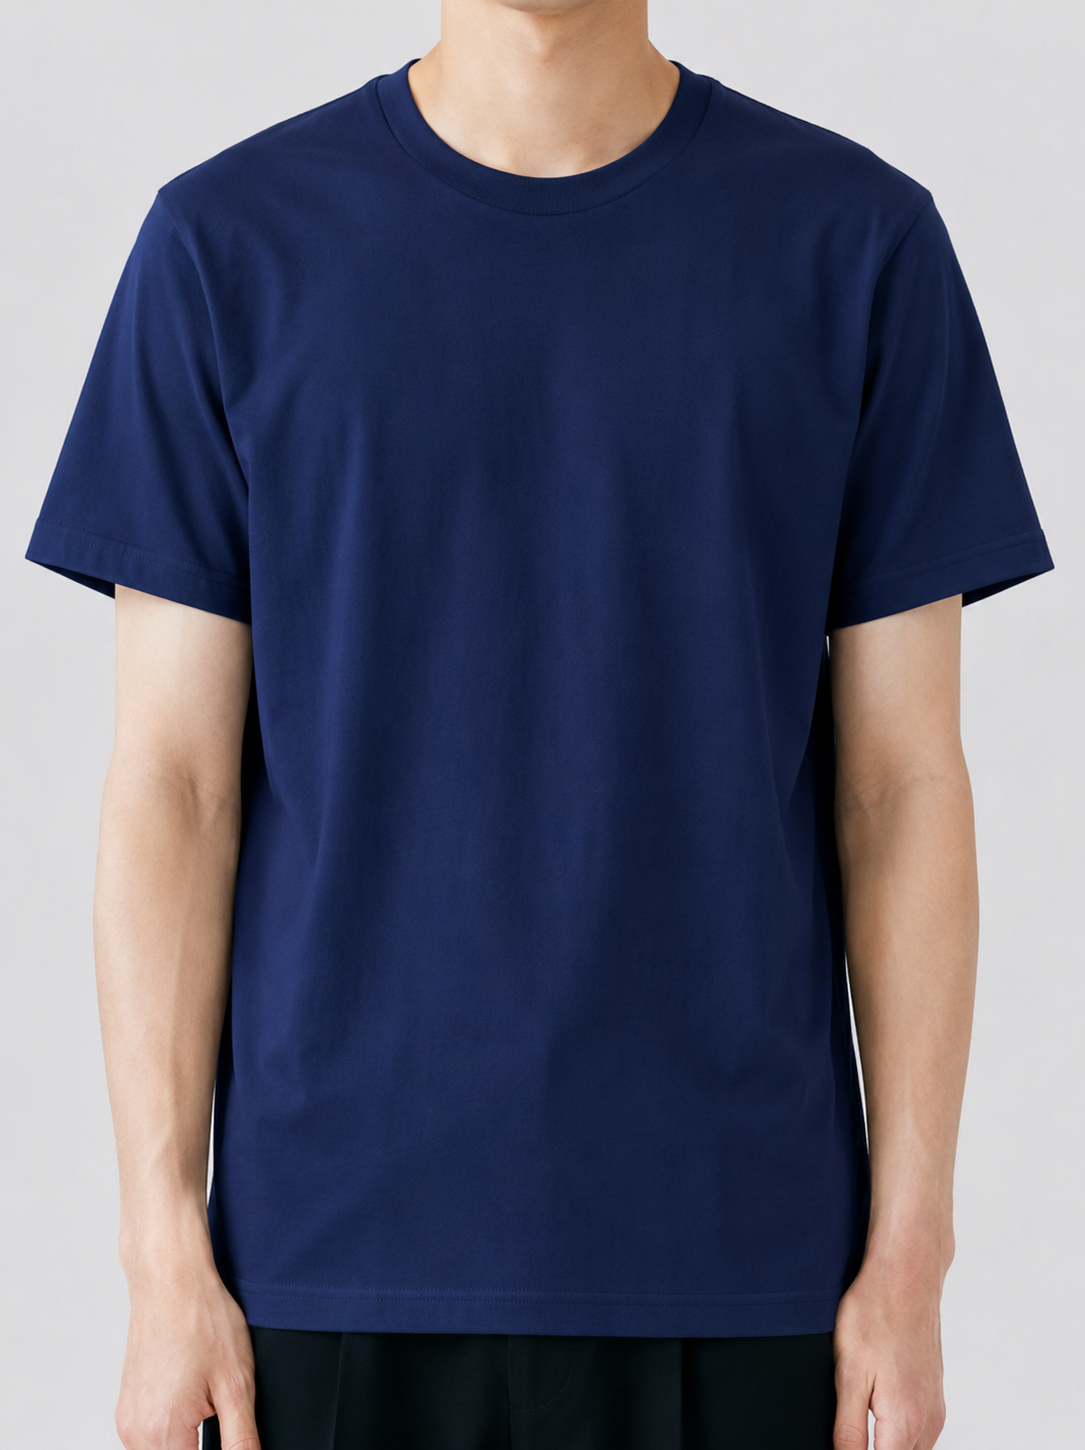
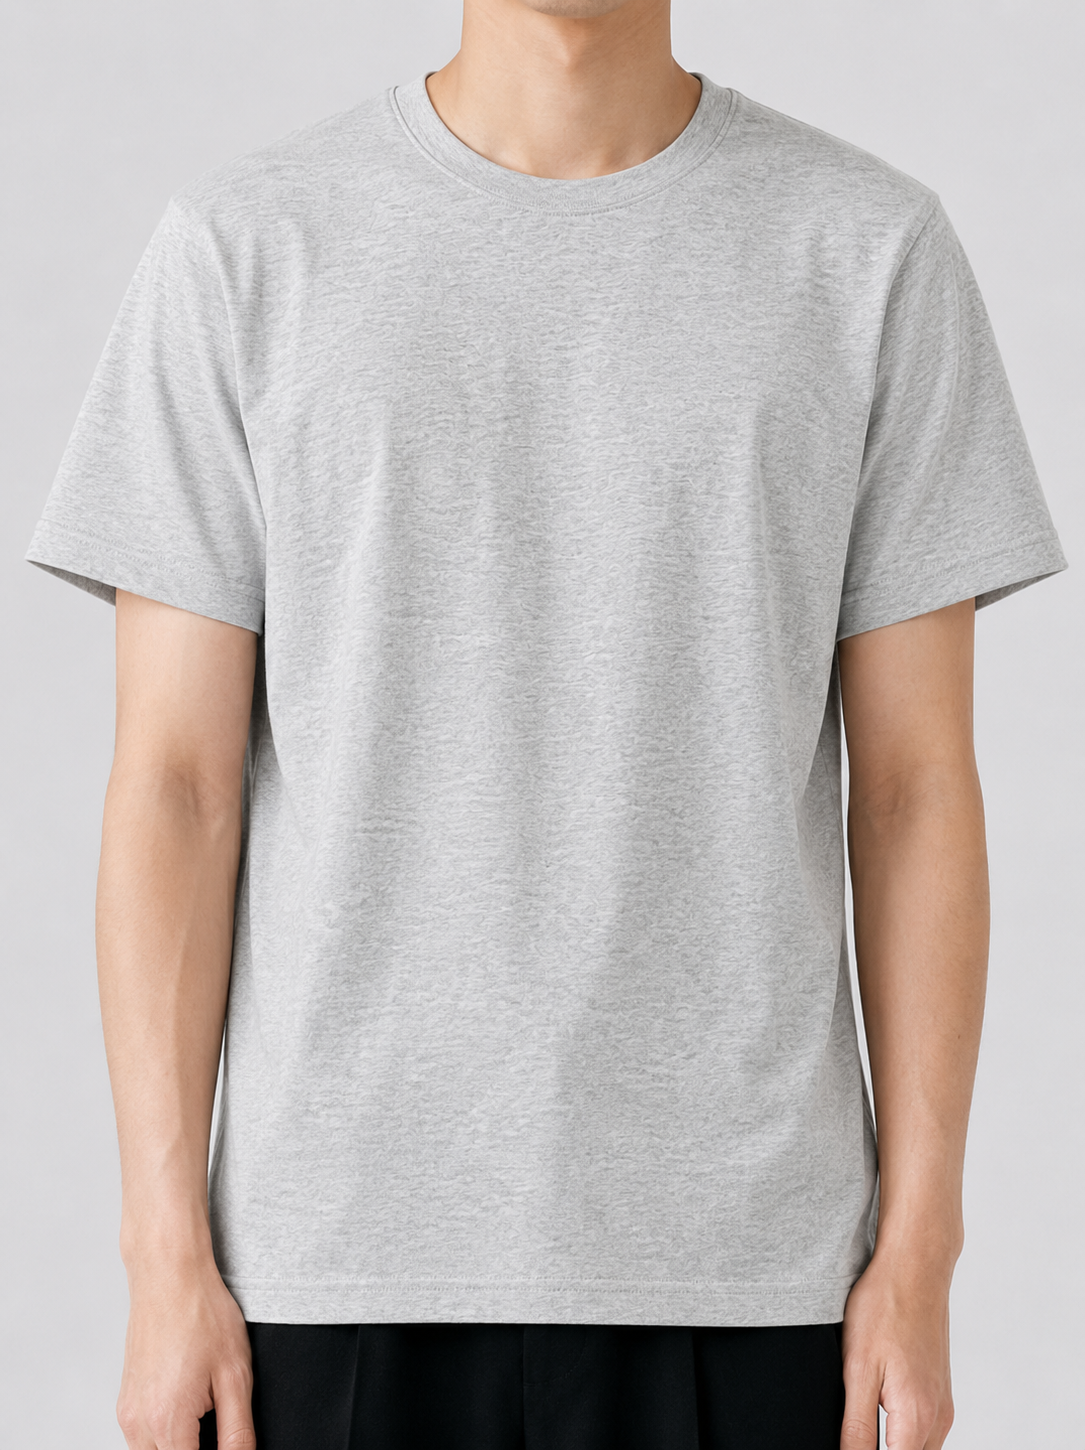
可运行版本-20260619

diff --git a/app/product-details/page.tsx b/app/product-details/page.tsx
@@ -36,6 +36,12 @@ const PRODUCT_DESCRIPTIONS: Record<number, string> = {
 ブラック
 ホワイト
 アプリコット
+ピンク
+グレー
+ネイビー
+ピンクグラデーション
+ブルーグラデーション
+グリーングラデーション
 
 ベーシックカラーで様々なスタイルに合わせやすい仕様です。
 
@@ -231,11 +237,17 @@ const PRODUCT_TABS: ProductTab[] = [
   {
     id: 0,
     name: 'ベーシックTシャツ',
-    colors: ['ホワイト', 'ブラック', 'アプリコット'],
+    colors: ['ホワイト', 'ブラック', 'アプリコット', 'ピンク', 'グレー', 'ネイビー', 'ピンクグラデーション', 'ブルーグラデーション', 'グリーングラデーション'],
     imagesByColor: {
       ホワイト: ['/01duant/wc11.png', '/01duant/wc1.png', '/01duant/wc2.png', '/01duant/wc3.png'],
       ブラック: ['/01duant/bc11.png', '/01duant/bc1.png', '/01duant/bc2.png', '/01duant/bc3.png'],
       アプリコット: ['/01duant/ac11.png', '/01duant/ac1.png', '/01duant/ac2.png', '/01duant/ac3.png'],
+      ピンク: ['/01duant/04-1.png', '/01duant/04-2.png', '/01duant/04-3.png', '/01duant/04-4.png'],
+      グレー: ['/01duant/05-1.png', '/01duant/05-2.png', '/01duant/05-3.png', '/01duant/05-4.png'],
+      ネイビー: ['/01duant/06-1.png', '/01duant/06-2.png', '/01duant/06-3.png', '/01duant/06-4.png'],
+      ピンクグラデーション: ['/01duant/07-1.png', '/01duant/07-2.png', '/01duant/07-3.png', '/01duant/07-4.png'],
+      ブルーグラデーション: ['/01duant/08-1.png', '/01duant/08-2.png', '/01duant/08-3.png', '/01duant/08-4.png'],
+      グリーングラデーション: ['/01duant/09-1.png', '/01duant/09-2.png', '/01duant/09-3.png', '/01duant/09-4.png'],
     },
     bottomImage: '/01duant/dtb1.png',
   },
@@ -322,11 +334,16 @@ function ProductDetailsContent() {
   const [selectedColor, setSelectedColor] = useState('白')
   const [carouselIndex, setCarouselIndex] = useState(0)
   const [isDescriptionExpanded, setIsDescriptionExpanded] = useState(false)
+  const [isColorsExpanded, setIsColorsExpanded] = useState(false)
 
   useEffect(() => {
     const t = tabParam !== null ? Math.min(Math.max(0, parseInt(tabParam, 10)), PRODUCT_TABS.length - 1) : 0
     setActiveTab(t)
   }, [tabParam])
+
+  useEffect(() => {
+    setIsColorsExpanded(false)
+  }, [activeTab])
 
   // 若当前商品不包含当前选中的颜色，则自动切换到第一个颜色
   useEffect(() => {
@@ -338,6 +355,15 @@ function ProductDetailsContent() {
   }, [activeTab, selectedColor])
 
   const product = PRODUCT_TABS[activeTab]
+  const COLLAPSED_COLOR_COUNT = 4
+  const useColorCollapse = product.id === 0 && product.colors.length > COLLAPSED_COLOR_COUNT
+  const displayedColors = (() => {
+    if (!useColorCollapse || isColorsExpanded) return product.colors
+    const first = product.colors.slice(0, COLLAPSED_COLOR_COUNT)
+    if (first.includes(selectedColor)) return first
+    return [selectedColor, ...first.filter((c) => c !== selectedColor)].slice(0, COLLAPSED_COLOR_COUNT)
+  })()
+  const hiddenColorCount = useColorCollapse && !isColorsExpanded ? product.colors.length - displayedColors.length : 0
   const carouselImages = product.imagesByColor[selectedColor] ?? product.imagesByColor['白'] ?? []
   const safeCarouselIndex = carouselImages.length > 0 ? Math.min(carouselIndex, carouselImages.length - 1) : 0
   const mainImageUrl = carouselImages[safeCarouselIndex] || ''
@@ -401,10 +427,11 @@ function ProductDetailsContent() {
         <div
           style={{
             width: '1000px',
-            height: '500px',
+            minHeight: '500px',
             marginBottom: '24px',
             display: 'flex',
             gap: '24px',
+            alignItems: 'flex-start',
           }}
         >
           {/* 左侧 300×600 图框（短袖T恤：按颜色轮播 + 圆点控制） */}
@@ -525,46 +552,76 @@ function ProductDetailsContent() {
               )}
             </div>
 
-            {/* 颜色选择 150px */}
+            {/* 颜色选择 */}
             <div
               style={{
-                height: '150px',
+                height: useColorCollapse && isColorsExpanded ? 'auto' : '150px',
                 padding: '16px',
                 border: '1px solid #e0e0e0',
                 borderRadius: '8px',
                 display: 'flex',
                 flexDirection: 'column',
                 gap: '12px',
+                flexShrink: 0,
+                position: 'relative',
+                zIndex: isColorsExpanded ? 50 : 1,
+                backgroundColor: '#fff',
+                boxShadow: isColorsExpanded ? '0 4px 12px rgba(0,0,0,0.15)' : 'none',
               }}
             >
               <div style={{ fontSize: '14px', fontWeight: 600 }}>カラー</div>
-              <div style={{ display: 'flex', gap: '12px' }}>
-                {product.colors.map((color) => (
+              <div style={{ display: 'flex', flexWrap: isColorsExpanded ? 'wrap' : 'nowrap', gap: '12px' }}>
+                {displayedColors.map((color) => (
                   <button
                     key={color}
                     type="button"
                     onClick={() => setSelectedColor(color)}
                     style={{
-                      padding: '8px 20px',
+                      padding: '8px 16px',
                       border: `2px solid ${selectedColor === color ? '#f4a261' : '#ddd'}`,
                       borderRadius: '6px',
                       backgroundColor: selectedColor === color ? 'rgba(244,162,97,0.2)' : '#fff',
                       cursor: 'pointer',
-                      fontSize: product.id === 3 ? '12px' : '14px',
+                      fontSize: product.id === 0 || product.id === 3 ? '12px' : '14px',
+                      whiteSpace: 'nowrap',
+                      flexShrink: 0,
                     }}
                   >
                     {color}
                   </button>
                 ))}
               </div>
+              {useColorCollapse && (
+                <div style={{ textAlign: 'center' }}>
+                  <button
+                    type="button"
+                    onClick={() => setIsColorsExpanded(!isColorsExpanded)}
+                    style={{
+                      padding: '6px 16px',
+                      backgroundColor: '#f4a261',
+                      color: '#fff',
+                      border: 'none',
+                      borderRadius: '4px',
+                      cursor: 'pointer',
+                      fontSize: '14px',
+                    }}
+                  >
+                    {isColorsExpanded ? '表示を戻す' : `もっと見る（+${hiddenColorCount}）`}
+                  </button>
+                </div>
+              )}
             </div>
 
-            {/* 加入购物车 150px */}
+            {/* 加入购物车 */}
             <div
               style={{
-                height: '150px',
                 display: 'flex',
                 alignItems: 'center',
+                flexShrink: 0,
+                position: 'relative',
+                zIndex: isColorsExpanded ? 101 : 2,
+                backgroundColor: '#f5f5f5',
+                padding: '6px 0',
               }}
             >
               <button

diff --git a/lib/cartCatalog.ts b/lib/cartCatalog.ts
@@ -10,11 +10,17 @@ export const CART_CATALOG: CartCatalogProduct[] = [
   {
     tabId: 0,
     name: 'ベーシックTシャツ',
-    colors: ['ホワイト', 'ブラック', 'アプリコット'],
+    colors: ['ホワイト', 'ブラック', 'アプリコット', 'ピンク', 'グレー', 'ネイビー', 'ピンクグラデーション', 'ブルーグラデーション', 'グリーングラデーション'],
     imagesByColor: {
       ホワイト: ['/01duant/wc11.png', '/01duant/wc1.png', '/01duant/wc2.png', '/01duant/wc3.png'],
       ブラック: ['/01duant/bc11.png', '/01duant/bc1.png', '/01duant/bc2.png', '/01duant/bc3.png'],
       アプリコット: ['/01duant/ac11.png', '/01duant/ac1.png', '/01duant/ac2.png', '/01duant/ac3.png'],
+      ピンク: ['/01duant/04-1.png', '/01duant/04-2.png', '/01duant/04-3.png', '/01duant/04-4.png'],
+      グレー: ['/01duant/05-1.png', '/01duant/05-2.png', '/01duant/05-3.png', '/01duant/05-4.png'],
+      ネイビー: ['/01duant/06-1.png', '/01duant/06-2.png', '/01duant/06-3.png', '/01duant/06-4.png'],
+      ピンクグラデーション: ['/01duant/07-1.png', '/01duant/07-2.png', '/01duant/07-3.png', '/01duant/07-4.png'],
+      ブルーグラデーション: ['/01duant/08-1.png', '/01duant/08-2.png', '/01duant/08-3.png', '/01duant/08-4.png'],
+      グリーングラデーション: ['/01duant/09-1.png', '/01duant/09-2.png', '/01duant/09-3.png', '/01duant/09-4.png'],
     },
     sizes: ['S', 'M', 'L', 'XL', '2XL', '3XL'],
   },

diff --git a/lib/printCatalog.ts b/lib/printCatalog.ts
@@ -8,6 +8,18 @@ export function getPrintBaseImages(tabId: number, color: string) {
     if (color === 'ホワイト') return { left: '/01duant/wz1.png', right: '/01duant/wb1.png' }
     if (color === 'ブラック') return { left: '/01duant/bz1.png', right: '/01duant/bb1.png' }
     if (color === 'アプリコット') return { left: '/01duant/az1.png', right: '/01duant/ab1.png' }
+    const extraColorPrefix: Record<string, string> = {
+      ピンク: '04',
+      グレー: '05',
+      ネイビー: '06',
+      ピンクグラデーション: '07',
+      ブルーグラデーション: '08',
+      グリーングラデーション: '09',
+    }
+    const prefix = extraColorPrefix[color]
+    if (prefix) {
+      return { left: `/01duant/${prefix}-5-1.png`, right: `/01duant/${prefix}-5-2.png` }
+    }
     return fallback
   }
 
